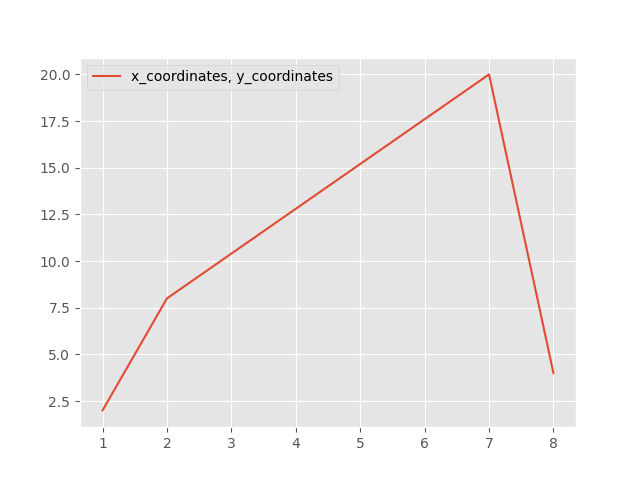
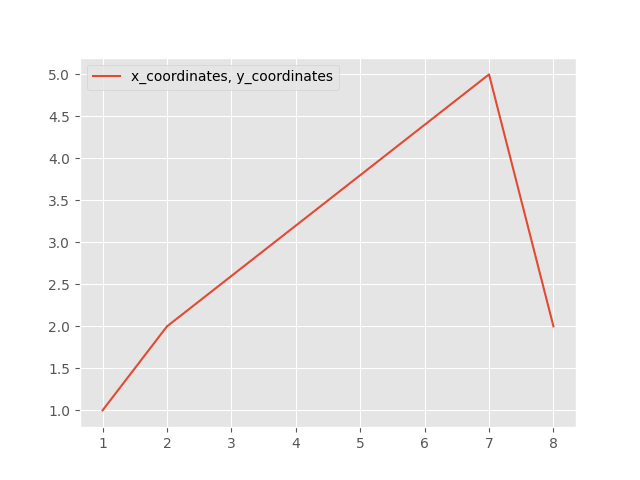
pushed from nick

diff --git a/main.py b/main.py
@@ -10,18 +10,18 @@ def excelToCsv():
     df = pd.read_excel("C:\\Users\\johnd\\Downloads\\points.xlsx")
     df.to_csv('points.csv', index=None, header=True)
 
-
-# another way of making a csv. Could be used later to manipulate points for the math conversion
-def createCsv():
-    print('john was here')
-    print('Jacob was here')
-    header = ['x_coordinates, y_coordinates']
-    data = [
+data = [
         [1, 2],
         [2, 8],
         [7, 20],
         [8, 4]
     ]
+# another way of making a csv. Could be used later to manipulate points for the math conversion
+def createCsv(data):
+    print('john was here')
+    print('Jacob was here')
+    header = ['x_coordinates, y_coordinates']
+
     df = pd.DataFrame(data)
     with open('points.csv', 'w', encoding='UTF8', newline='') as f:
         writer = csv.writer(f)
@@ -30,7 +30,7 @@ def createCsv():
     return data
 
 
-data = createCsv()
+data = createCsv(data)
 df = pd.DataFrame(data)
 
 
@@ -95,12 +95,16 @@ def flattener(data, lowerFactor): #Contos
     for idx, x in enumerate(data):
 
         if data[idx][1] > avg:
-            data[idx][1] = int(data[idx][1] / lowerFactor) #takes an array of only single ints for highvals, not array of points
+            data[idx][1] = int(data[idx][1] / lowerFactor)
         else:
             data[idx][1] = int(data[idx][1] / 1.5)
     return data
 
-print("lowered data", flattener(data,3))
+
+data = createCsv(flattener(data,4))
+df = pd.DataFrame(data)
+displayCsv()
+print("lowered data", data)
 
 
 
